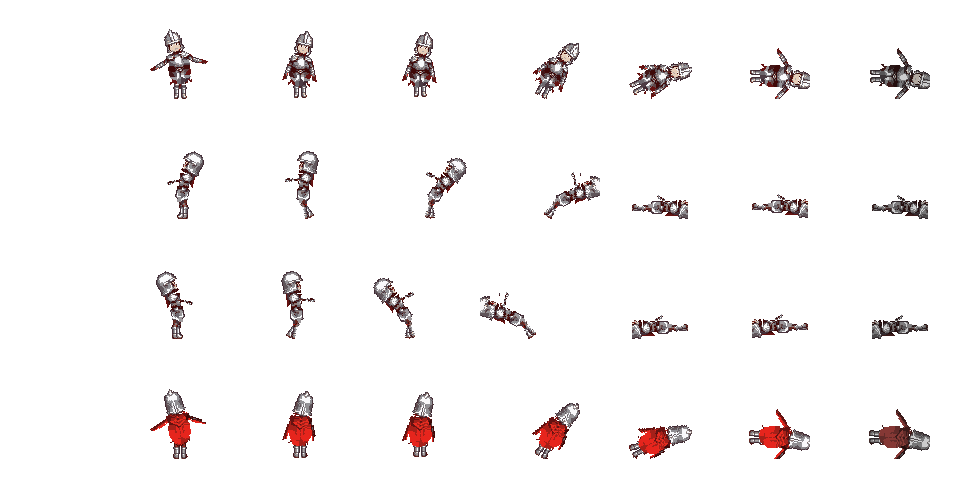
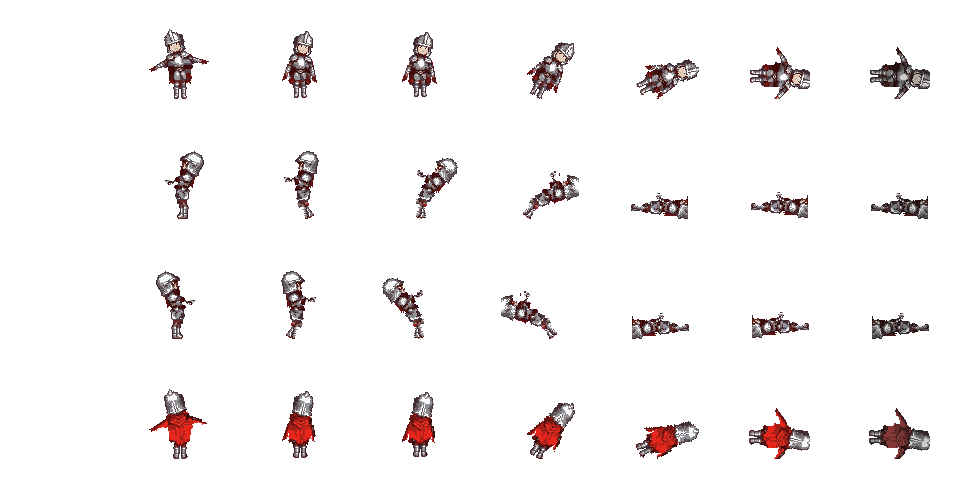
예시 동작 다시 만들고 설명서에 골반·틈 메우기 추가

diff --git a/README.md b/README.md
@@ -30,13 +30,14 @@ The model was asked to follow a pose skeleton, and that skeleton is saved in
 `sheet.json`. `pixel-animate` uses it as a 2D bone rig, the way Spine or
 DragonBones work:
 
-1. The standing sprite is cut into head, torso, upper/lower arms and legs,
+1. The standing sprite is cut into head, torso, pelvis, upper/lower arms and legs,
    each pixel going to the nearest bone.
 2. Where an arm covered the torso, the torso gets filled-in pixels so a
    moving arm does not leave a hole.
 3. Each motion is a list of joint angles. Parts rotate around their joints,
    parents first, and are drawn back with nearest-pixel sampling, so the art
-   stays crisp and keeps its palette. Feet are kept on the floor.
+   stays crisp and keeps its palette. Feet are kept on the floor, and cracks
+   that open at bent joints are filled.
 4. Sword, slash trail and magic are drawn on top as plain pixels.
 
 No GPU needed, it takes a second.
@@ -44,7 +45,7 @@ No GPU needed, it takes a second.
 | motion | frames | what happens |
 | --- | --- | --- |
 | `idle` | 4 | breathing, arms sway a little |
-| `walk` | 8 | legs swing with bending knees, arms swing opposite |
+| `walk` | 8 | legs swing with bending knees, pelvis rocks, arms swing opposite |
 | `attack` | 8 | wind-up, swing with a slash trail, follow-through |
 | `cast` | 8 | arms rise, an orb grows over the head and is thrown |
 | `death` | 8 | hit flash, staggers back, falls flat, lies still |
